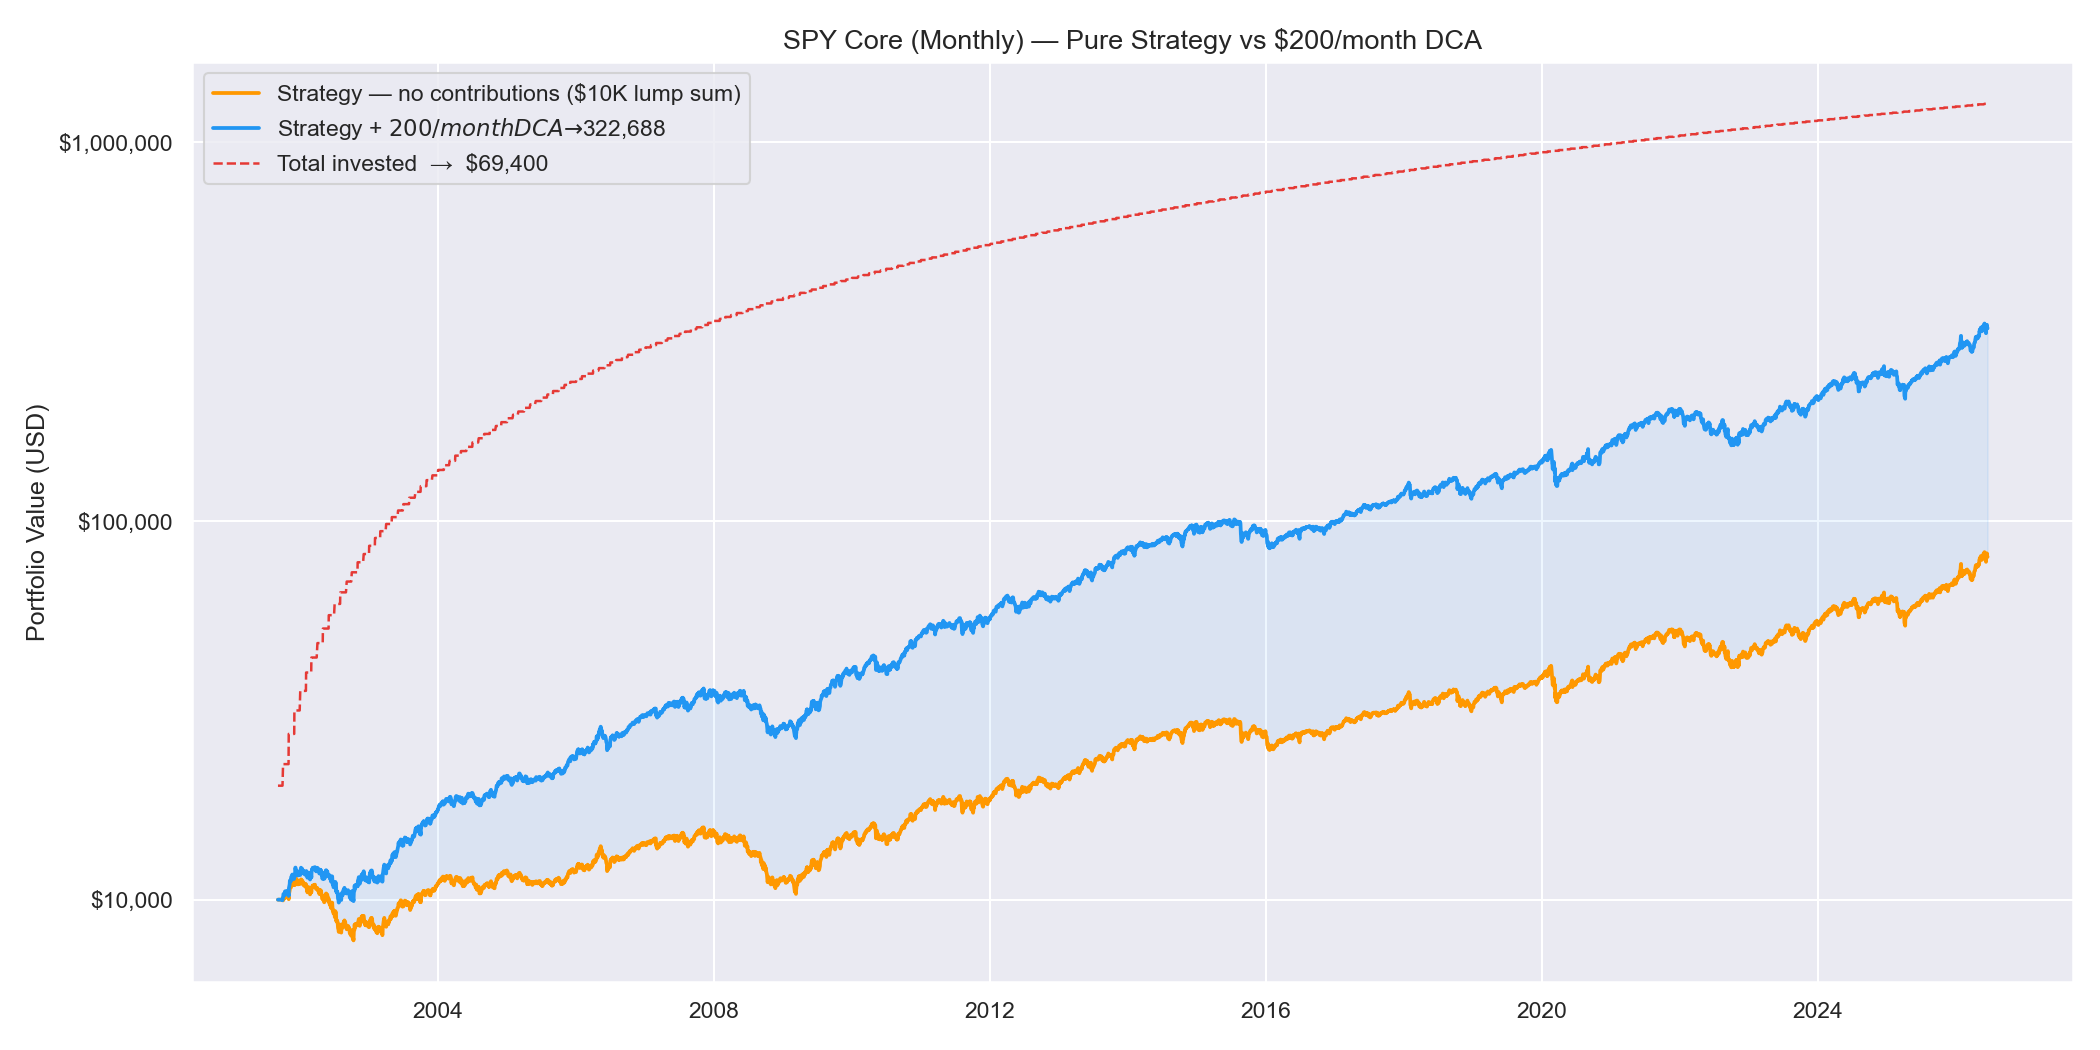
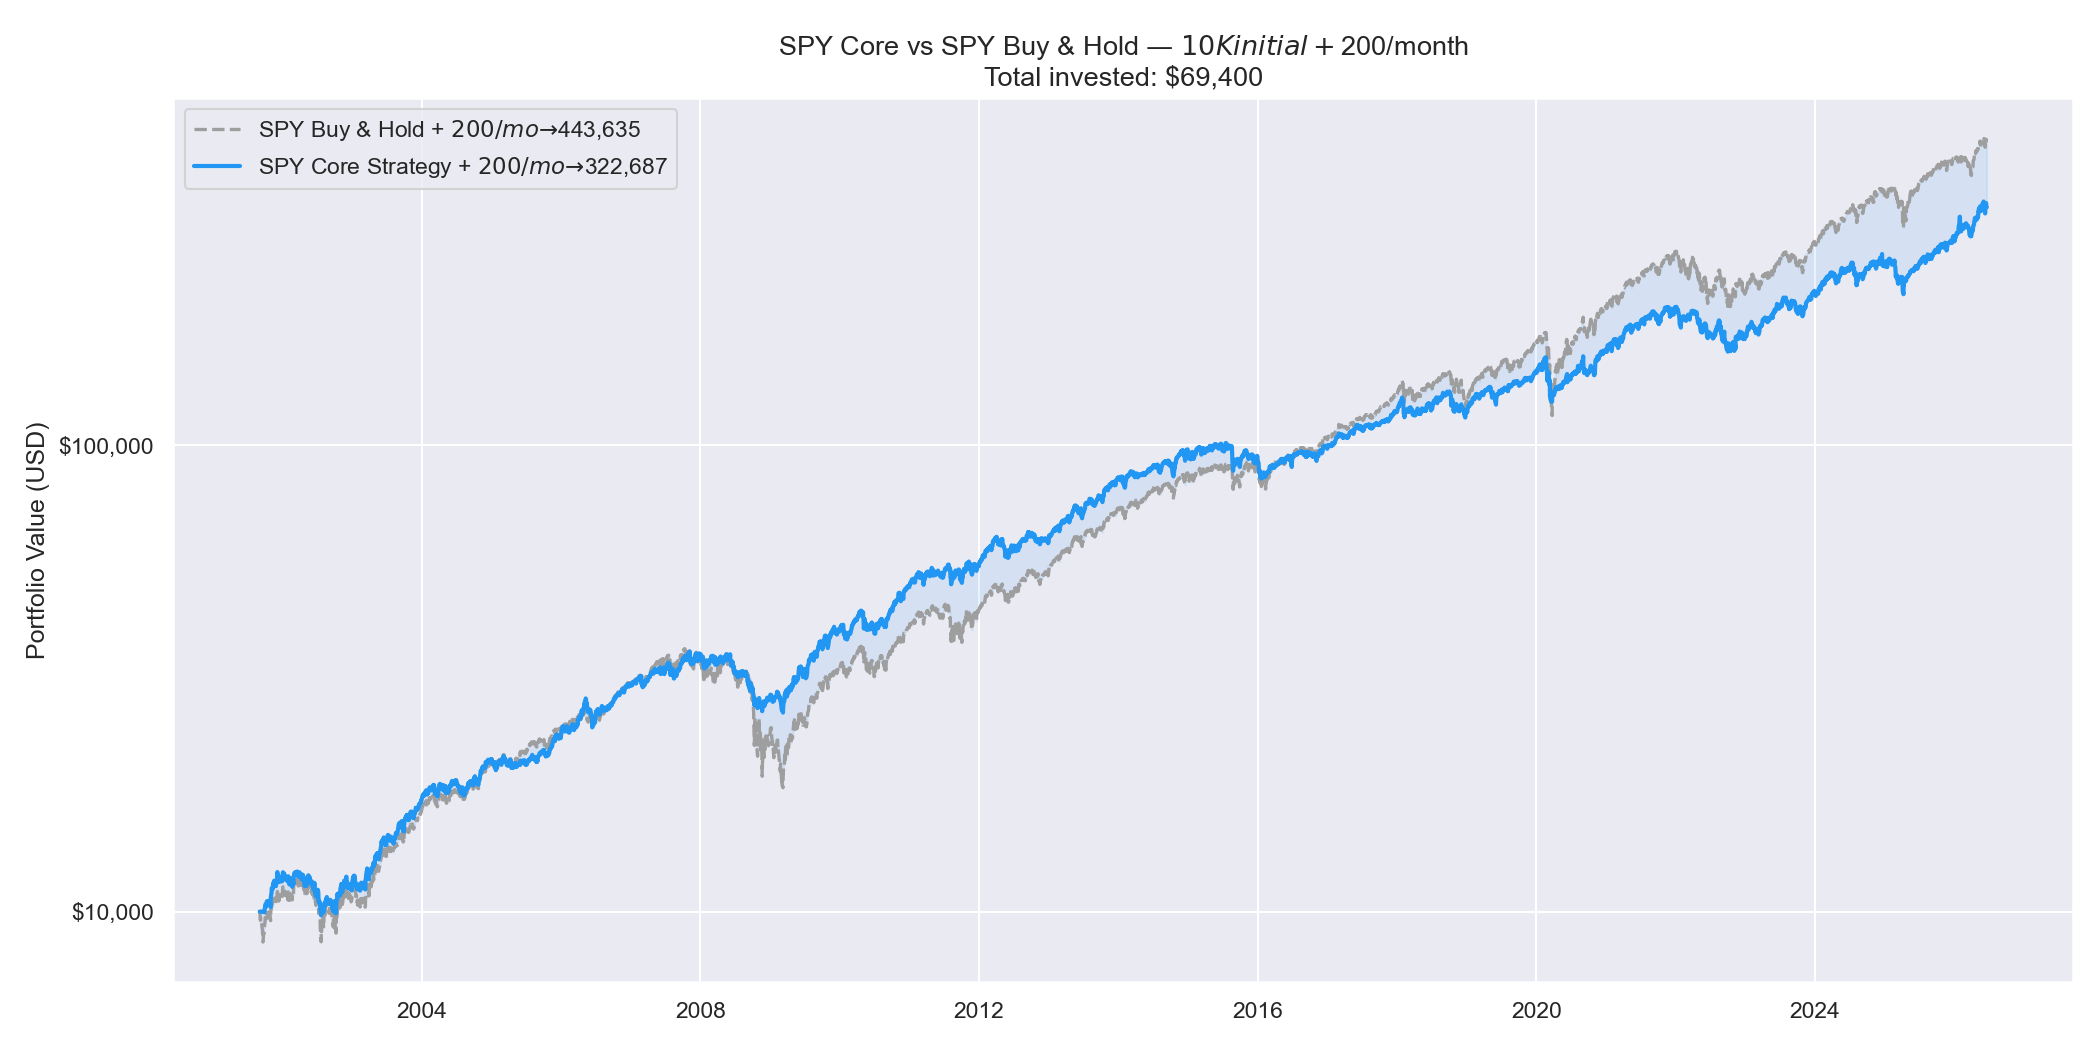
Fix DCA chart: strategy vs SPY B&H, same contributions, no invested line

diff --git a/docs/programs/spy-core.html b/docs/programs/spy-core.html
@@ -254,7 +254,7 @@ ul.task-list li input[type="checkbox"] {
 <figcaption>Strategy vs $200/month DCA</figcaption>
 </figure>
 </div>
-<p><em>Orange: pure strategy ($10K lump sum). Blue: strategy + $200/month. Red dashed: total capital invested.</em></p>
+<p><em>Grey dashed: SPY Buy &amp; Hold + $200/month. Blue: SPY Core strategy + $200/month. Same capital deployed to both — the gap is the strategy’s alpha.</em></p>
 <hr>
 </section>
 <section id="live-deployment" class="level2">